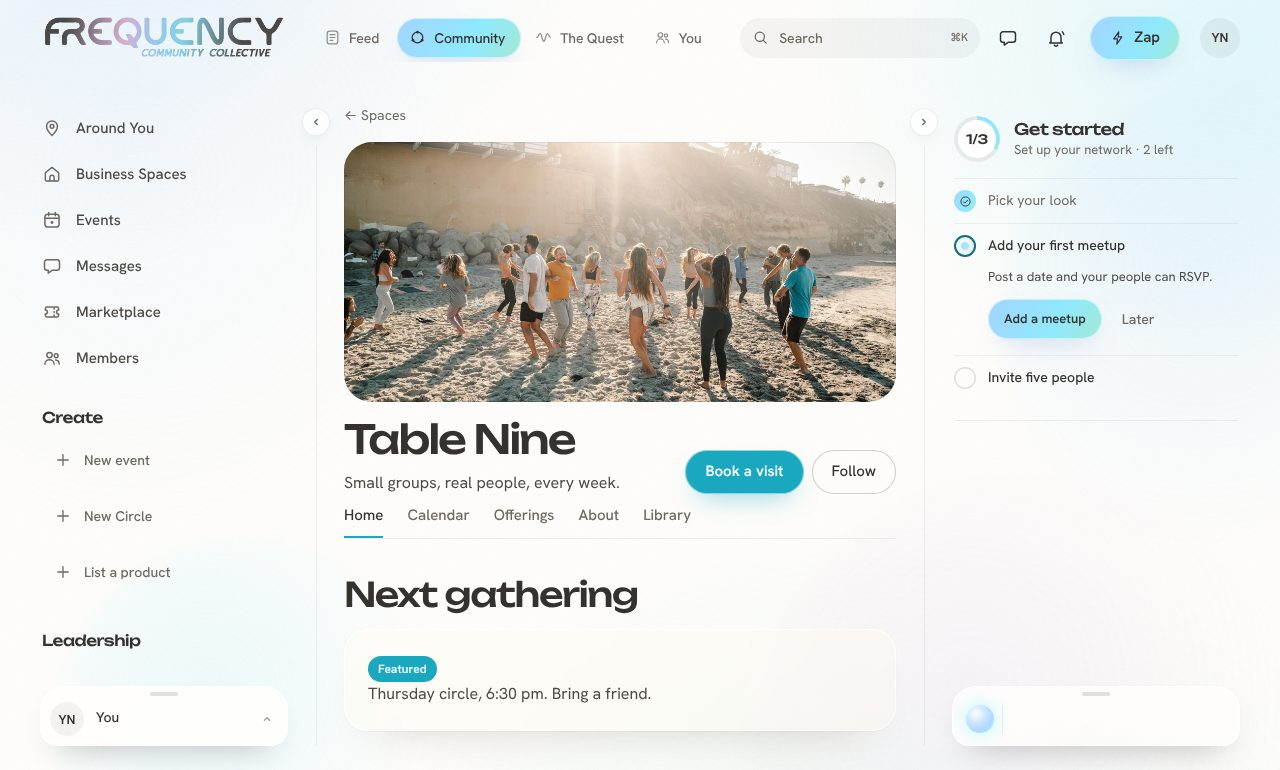
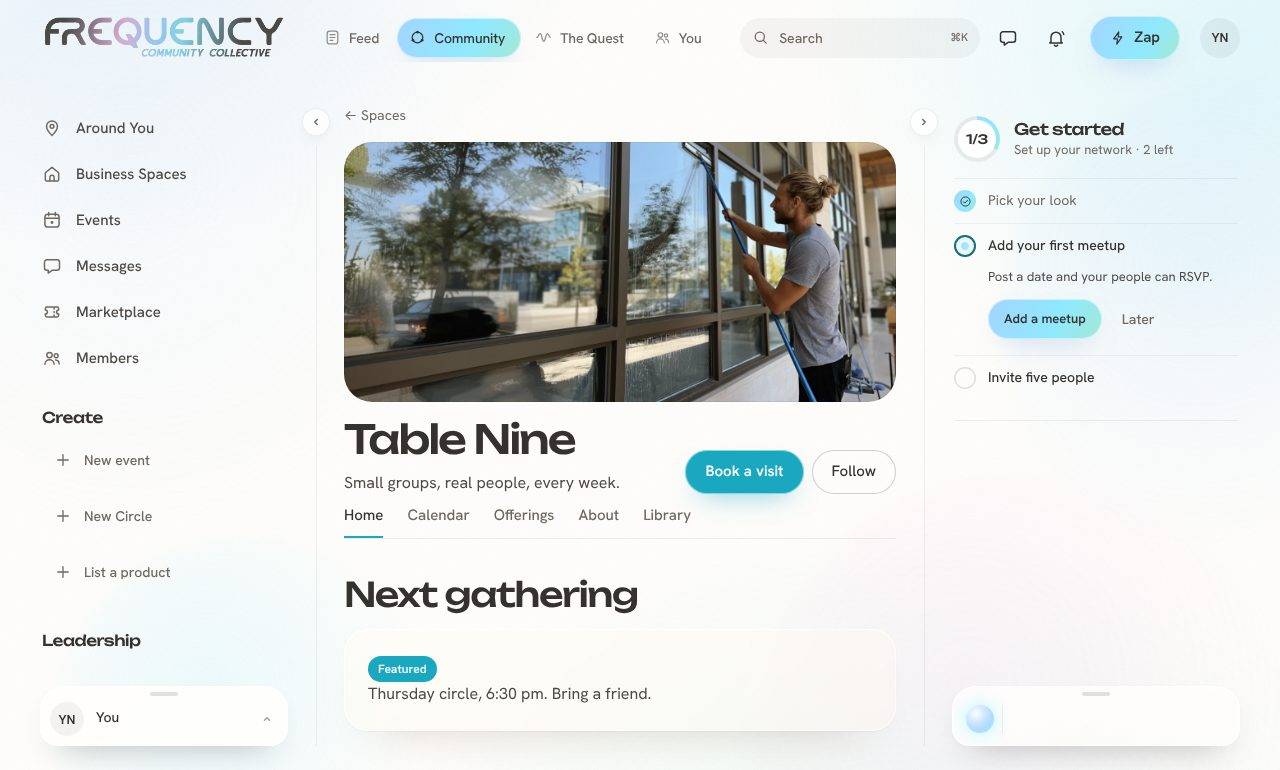
Use the window washer photo as the Services theme hero (LIVE-2231) (#4674)
* Use the window washer photo as the Services theme hero (LIVE-2231)

Claude-Session: https://claude.ai/code/session_012BMmZVxp6y2v7jkAo6muM7

* Re-render the Services theme page pictures with the window washer hero (LIVE-2231)

Claude-Session: https://claude.ai/code/session_012BMmZVxp6y2v7jkAo6muM7

* Write the LIVE-2231 probe as a node -e body

Claude-Session: https://claude.ai/code/session_012BMmZVxp6y2v7jkAo6muM7

* Keep the Services hero path file-local so the dead-export ceiling holds

Claude-Session: https://claude.ai/code/session_012BMmZVxp6y2v7jkAo6muM7

---------

Changed region(s): [[0.25, 0.187, 0.7188, 0.5299]]

diff --git a/lib/sites/kits/services-variants.ts b/lib/sites/kits/services-variants.ts
@@ -21,7 +21,11 @@ type Block = KitPage['blocks'][number]
 const slot = (key: string, sample: string) => `{{${key}|${sample}}}`
 const hasNumber = (s: string) => /\d/.test(s)
 
-function pages(s: ServicesTradeSpec): KitPage[] {
+/** The General kit's photo hero: a window washer at work (owner's picture, 2026-11-05), the Services theme's hero everywhere it shows. */
+const SERVICES_HERO_IMAGE = '/sites/services/hero-squeegee.webp'
+const SERVICES_HERO_ALT = 'A window washer with a squeegee on a long blue pole, cleaning a tall storefront window'
+
+function pages(s: ServicesTradeSpec, trade: ServicesTradeId): KitPage[] {
   const offers = s.offers.map((o, i) => ({
     name: slot(`offer${i + 1}Title`, o.name), meta: o.length, body: slot(`offer${i + 1}Blurb`, o.meta), price: slot(`offer${i + 1}Price`, o.price), href: '~/booking',
   }))
@@ -29,7 +33,7 @@ function pages(s: ServicesTradeSpec): KitPage[] {
     type: 'ServicesHero',
     props: {
       look: 'photo', eyebrow: s.hero.eyebrow, title: `${s.hero.title} *${s.hero.em}*`, lead: s.hero.body,
-      primaryLabel: s.cta, primaryHref: '~/booking', secondaryLabel: 'See what we do', secondaryHref: '~/services', proof: '', image: '', alt: '',
+      primaryLabel: s.cta, primaryHref: '~/booking', secondaryLabel: 'See what we do', secondaryHref: '~/services', proof: '', image: trade === 'general' ? SERVICES_HERO_IMAGE : '', alt: trade === 'general' ? SERVICES_HERO_ALT : '',
       panelTitle: 'Book online', panelNote: 'Pick a time', offers: offers.map((o) => ({ name: o.name, meta: o.meta, price: o.price, href: o.href })), areas: [],
     },
   }
@@ -119,6 +123,6 @@ export function servicesKit(trade: ServicesTradeId): ServicesKit {
   const s: ServicesTradeSpec = SERVICES_TRADES[trade]
   return {
     id: `services-${trade}`, version: 1, theme: 'Services', niche: 'general', trade, label: s.label, description: servicesKitDescription(trade),
-    tools: s.tools, accent: SERVICES_ACCENTS[s.accent].accent, pages: pages(s),
+    tools: s.tools, accent: SERVICES_ACCENTS[s.accent].accent, pages: pages(s, trade),
   }
 }

diff --git a/scripts/render/theme-pages-shots.render.tsx b/scripts/render/theme-pages-shots.render.tsx
@@ -51,7 +51,7 @@ const THEMES: { ed: 'Menswork' | 'Wildheart' | 'Services' | 'CyberWitch'; id: st
   { ed: 'Menswork', id: 'bold', mega: 'bold', kit: 'bold-coaches', skin: { theme: 'menswork', season: 'fall' }, photo: '/brand/frequency/photos/gathering-10.jpg', cover: '/brand/frequency/photos/gathering-12.jpg', accent: '#1F8A8A' },
   { ed: 'Wildheart', id: 'wildheart', mega: 'wildheart', kit: 'wildheart-coaches', skin: { theme: 'wildheart', season: 'fall' }, photo: '/brand/wildheart/photos/huddle.jpg', cover: '/brand/wildheart/photos/sisters-shore.jpg', accent: '#6E4D96' },
   // Services: the General kit on Night, in its Tide starting accent (SERVICES_ACCENTS.tide).
-  { ed: 'Services', id: 'services', mega: 'services', kit: 'services-general', skin: { theme: 'services', season: 'fall' }, photo: '/brand/frequency/photos/gathering-10.jpg', cover: '/brand/frequency/photos/gathering-12.jpg', accent: SERVICES_TIDE },
+  { ed: 'Services', id: 'services', mega: 'services', kit: 'services-general', skin: { theme: 'services', season: 'fall' }, photo: '/sites/services/hero-squeegee.webp', cover: '/sites/services/hero-squeegee.webp', accent: SERVICES_TIDE },
   // CyberWitch: the General kit in its Hex starting accent (CYBERWITCH_ACCENTS.hex), dark only.
   { ed: 'CyberWitch', id: 'cyberwitch', mega: 'cyberwitch', kit: 'cyberwitch-general', skin: { theme: 'cyberwitch', season: 'fall' }, photo: `/sites/cyberwitch/photos/founder-${CW}.jpg`, cover: `/sites/cyberwitch/photos/hero-${CW}.jpg`, accent: CYBERWITCH_HEX },
 ]
